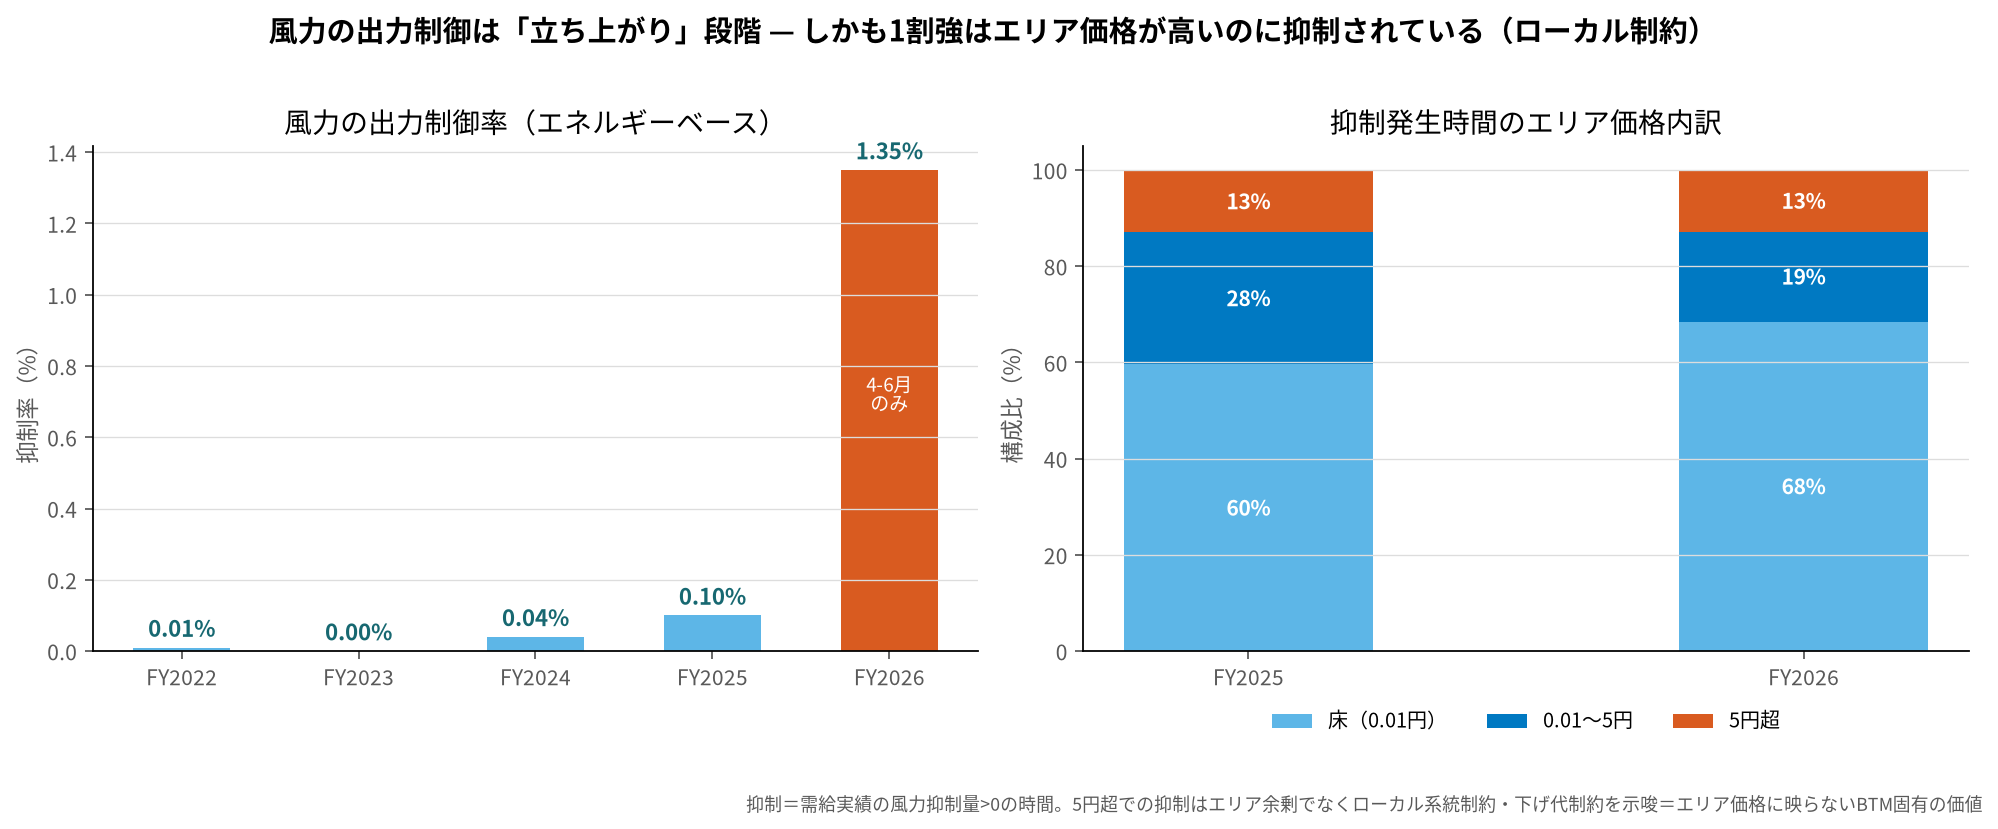
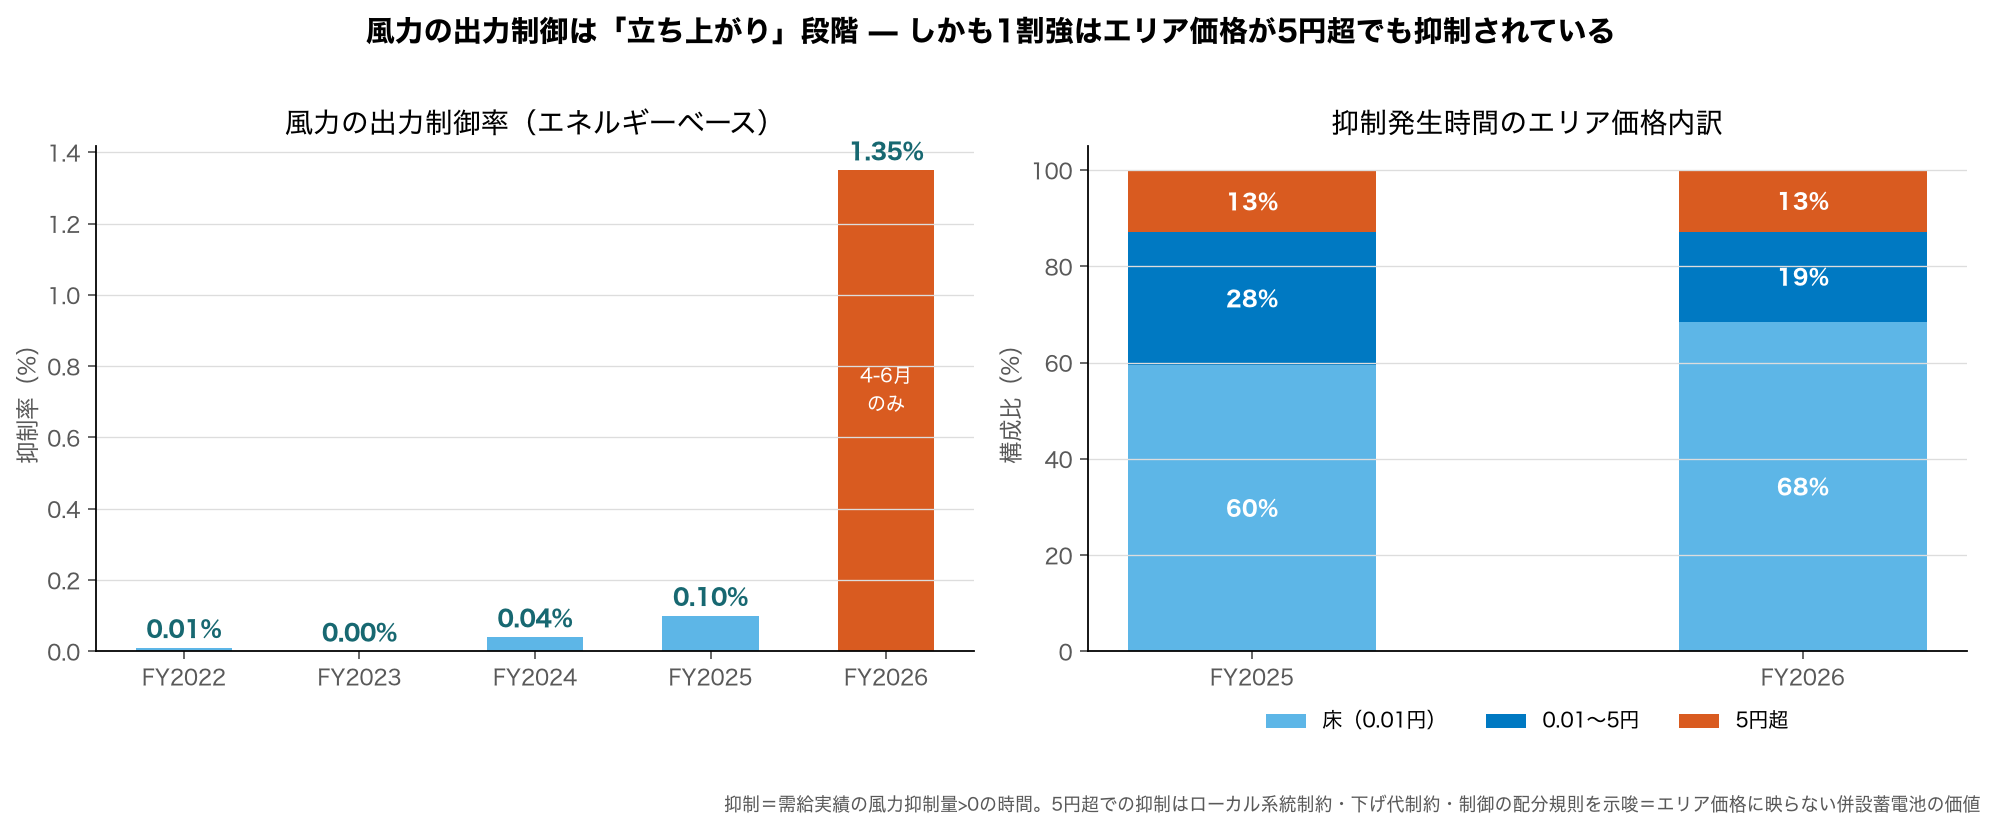
図 btm_case の見出し・注記から BTM を除き、OCCTO 検証（エリア全体起因が主）に合わせてローカル制約の断定を弱める

diff --git a/thesis/analysis/20_btm_case.py b/thesis/analysis/20_btm_case.py
@@ -108,10 +108,10 @@ for ax in (ax1, ax2):
     for sp in ["top", "right"]:
         ax.spines[sp].set_visible(False)
     ax.tick_params(colors=GRAY, labelsize=9.5)
-fig.suptitle("風力の出力制御は「立ち上がり」段階 — しかも1割強はエリア価格が高いのに抑制されている（ローカル制約）",
+fig.suptitle("風力の出力制御は「立ち上がり」段階 — しかも1割強はエリア価格が5円超でも抑制されている",
              fontsize=13, fontweight="bold", y=1.02)
 fig.text(0.995, -0.06,
-         "抑制＝需給実績の風力抑制量>0の時間。5円超での抑制はエリア余剰でなくローカル系統制約・下げ代制約を示唆＝エリア価格に映らないBTM固有の価値",
+         "抑制＝需給実績の風力抑制量>0の時間。5円超での抑制はローカル系統制約・下げ代制約・制御の配分規則を示唆＝エリア価格に映らない併設蓄電池の価値",
          ha="right", fontsize=8, color=GRAY)
 fig.tight_layout()
 fig.savefig(os.path.join(FIGDIR, "btm_case.png"), dpi=160, bbox_inches="tight")
